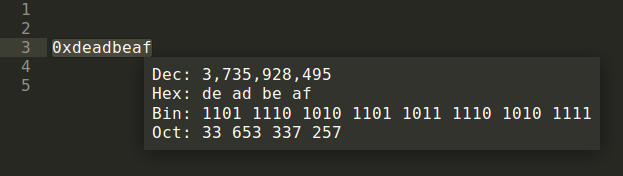
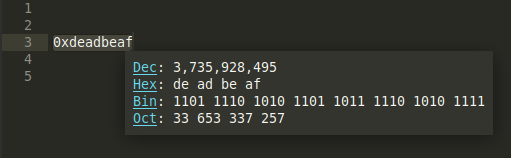
Append description considering convert functionality

diff --git a/README.md b/README.md
@@ -1,5 +1,5 @@
 ## Plugin that shows a number in 10, 16, 2 and 8 numeral systems for Sublime
 
-This plugin converts the selected number in decimal, hexadecimal and octal numeral systems and displays a popup that shows the result in all four (dec, hex, bin and oct) numeral systems.
+This plugin converts the selected number in decimal, hexadecimal, binary or octal numeral systems and displays a popup that shows the result in all four (dec, hex, bin and oct) numeral systems. By clicking on any of them in the popup window it converts the number.
 
 ![popup example](screenshot.png "popup example")
